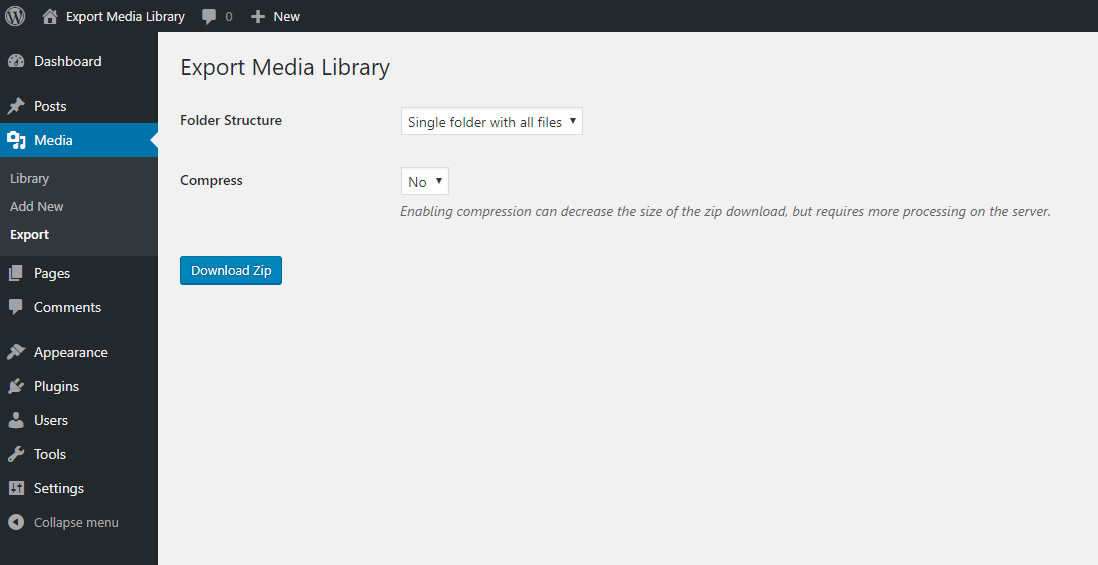
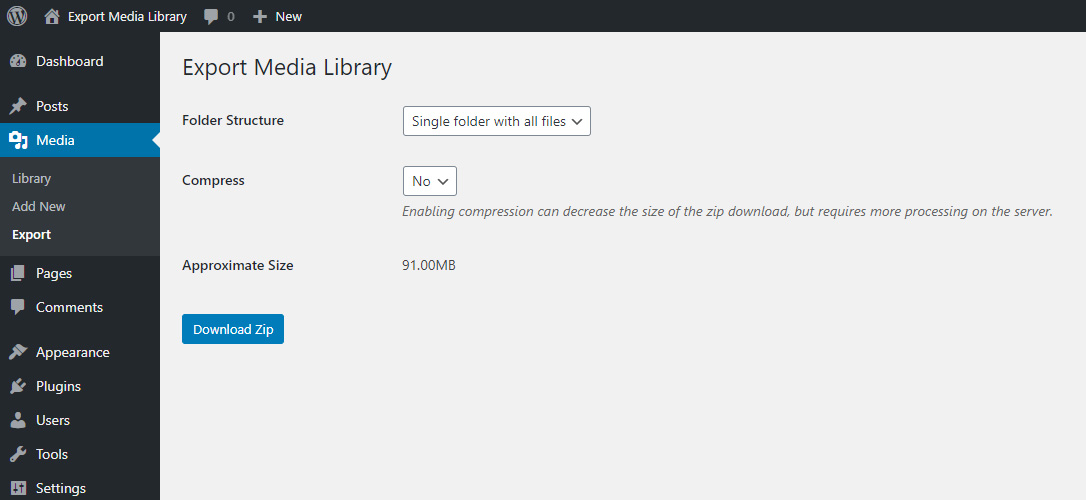
added basic support for displaying approximate size of the export

diff --git a/lib/MassEdge/WordPress/Plugin/ExportMediaLibrary/Module/AdminPageExport.php b/lib/MassEdge/WordPress/Plugin/ExportMediaLibrary/Module/AdminPageExport.php
@@ -3,6 +3,7 @@
 namespace MassEdge\WordPress\Plugin\ExportMediaLibrary\Module;
 
 use MassEdge\WordPress\Plugin\ExportMediaLibrary\API;
+use ByteUnits;
 
 class AdminPageExport extends Base {
     const FIELD_SUBMIT_DOWNLOAD = 'massedge-wp-plugin-eml-ape-submit-download';
@@ -74,6 +75,29 @@ class AdminPageExport extends Base {
         });
     }
 
+    static function getApproximateExportSize() {
+        $query = new \WP_Query();
+        $attachmentIds = $query->query(API::defaultExportOptions()['query_args']);
+
+        $totalSize = 0;
+        foreach($attachmentIds as $attachmentId) {
+            // get attachment path
+            $attachmentPath = get_attached_file($attachmentId);
+            if (!$attachmentPath) continue;
+
+            // TODO: account for 'massedge-wp-eml/export/add_attachment' filter
+
+            // get size
+            $size = @filesize($attachmentPath);
+            if (false === $size) continue;
+
+            // add size
+            $totalSize += $size;
+        }
+
+        return $totalSize;
+    }
+
     function page() {
         ob_start();
         ?>
@@ -101,6 +125,12 @@ class AdminPageExport extends Base {
                         <option value="1">Yes</option>
                     </select>
                     <p class="description">Enabling compression can decrease the size of the zip download, but requires more processing on the server.</p>
+                </td>
+            </tr>
+            <tr>
+                <th>Approximate Size</th>
+                <td>
+                    <?php echo ByteUnits\Metric::bytes(self::getApproximateExportSize())->format() ?>
                 </td>
             </tr>
         </table>

diff --git a/index.php b/index.php
@@ -3,7 +3,7 @@
 Plugin Name: Export Media Library
 Plugin URI: https://github.com/massedge/wordpress-plugin-export-media-library
 Description: Allows admins to export media library files as a compressed zip archive.
-Version: 3.0.0
+Version: 3.1.0
 Author: Mass Edge Inc.
 Author URI: https://www.massedge.com/
 License: GPL3
